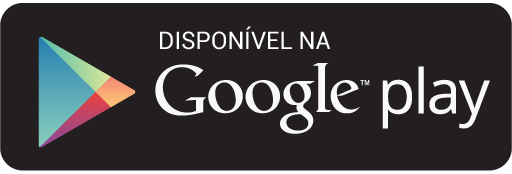
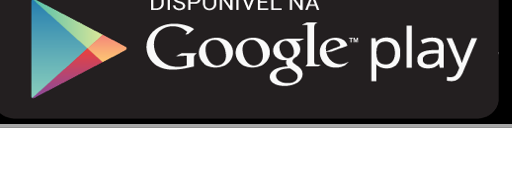
ajuste do botao android

diff --git a/index.html b/index.html
@@ -17,7 +17,7 @@
 	<header>
 		<div class="hero-text-box">
 				<h1>CIAP 2<br> Atenção Primária <br></h1>
-			<a href="https://play.google.com/store/apps/details?id=com.ciap2" target="_blank"><img class="buttons" src="./resources/img/google-play-button.png"></a>
+			<a href="https://play.google.com/store/apps/details?id=com.ciap2" target="_blank"><img class="buttons" src="./resources/img/googleplay-cta-button.png"></a>
 			<a href="https://itunes.apple.com/app/apple-store/id1450836069?pt=95625862&ct=site&mt=8" target="_blank"><img class="buttons" src="./resources/img/download-app-store-norsk.png"></a>
 				</div> 
 	</header>
@@ -35,12 +35,33 @@
 		</div>
 		</div>
 	</section>
+
+	<section class="section" align="center">
+		<br><br>
+			
+					<h1>Publicações</h1>
+			<div class="row">
+					<a class="footer-nav" href="http://cbmfc2019.com.br/trabalhos/trabalho_aprovado.php?id_trabalho=25586&ev=1#topo">
+						<p>Desenvolvimento de um aplicativo para consulta ao CIAP-2
+							<br><h3>15º Congresso Brasileiro de Medicina da Família e Comunidade</h3></p></a>
+					
+				</div>
+
+			
+
+			<div class="row">
+					<a class="footer-nav" href="https://www.even3.com.br/anais/cbtms9/144910-desenvolvimento-de-um-aplicativo-para-consulta-ao-sistema-de-classificacao-internacional-de-atencao-primaria---se/" target="_blank">
+						<p> Desenvolvimento de um aplicativo para consulta ao <br>Sistema de Classificação Internacional de Atenção Primária <br>- Segunda Edição (CIAP2)
+							<br> <h3> 9º Congresso Brasileiro de Telemedicina e Telessaúde – 9CBTms</h3>
+						</p></a>
+			</div>
+	</section>
 	<footer>
 		<div class="row">
 				<p class="footer-text"></p>
 			</div>
 			<div class="row">
-				<a href="https://play.google.com/store/apps/details?id=com.ciap2" target="_blank"><img class="buttons" src="./resources/img/google-play-button.png"></a>
+				<a href="https://play.google.com/store/apps/details?id=com.ciap2" target="_blank"><img class="buttons" src="./resources/img/googleplay-cta-button.png"></a>
 				<a href="https://itunes.apple.com/app/apple-store/id1450836069?pt=95625862&ct=site&mt=8" target="_blank"><img class="footer-buttons" src="./resources/img/download-app-store-norsk.png"></a>
 			</div>
 			<div class="row">
